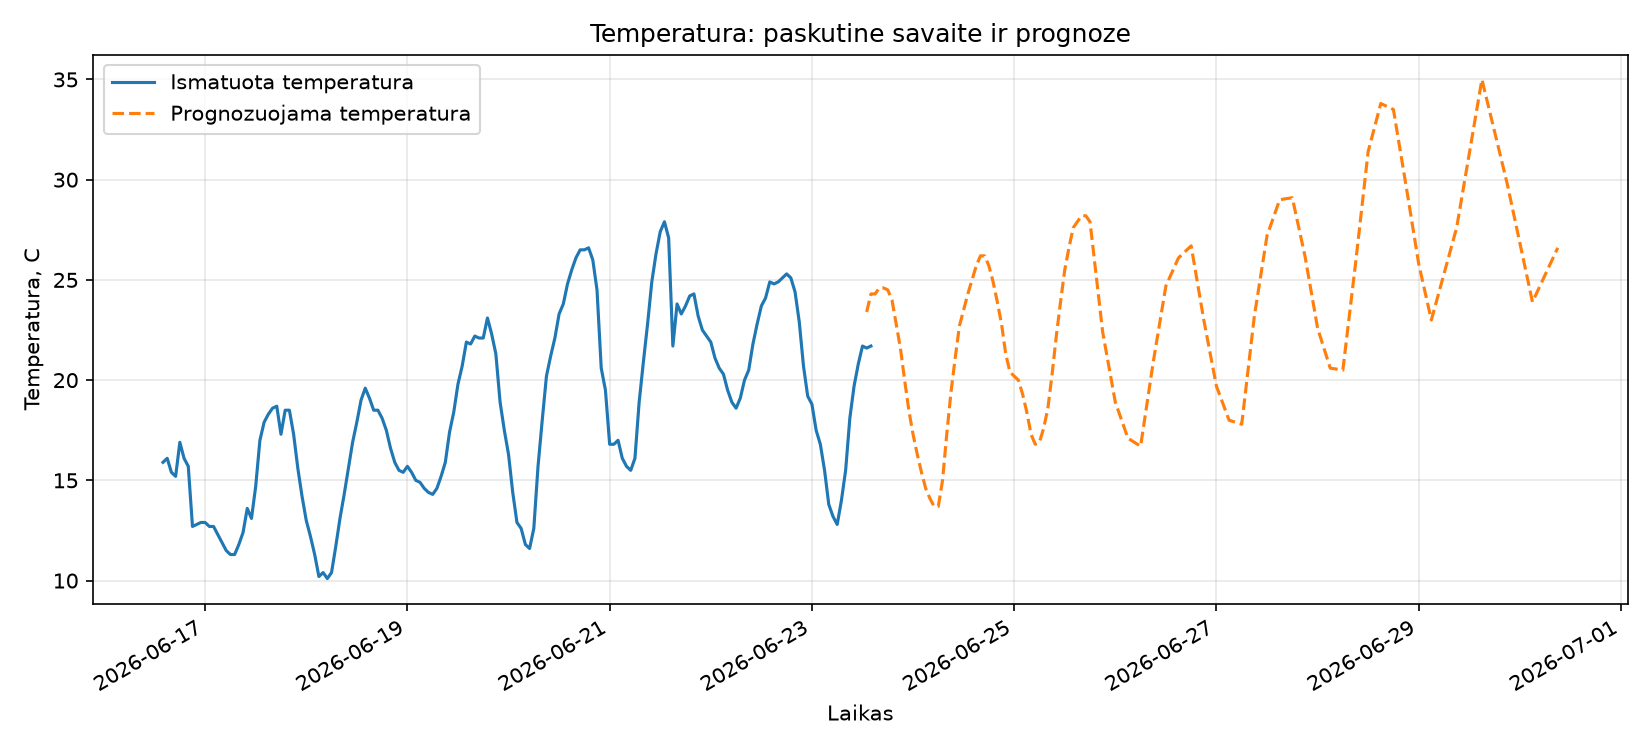
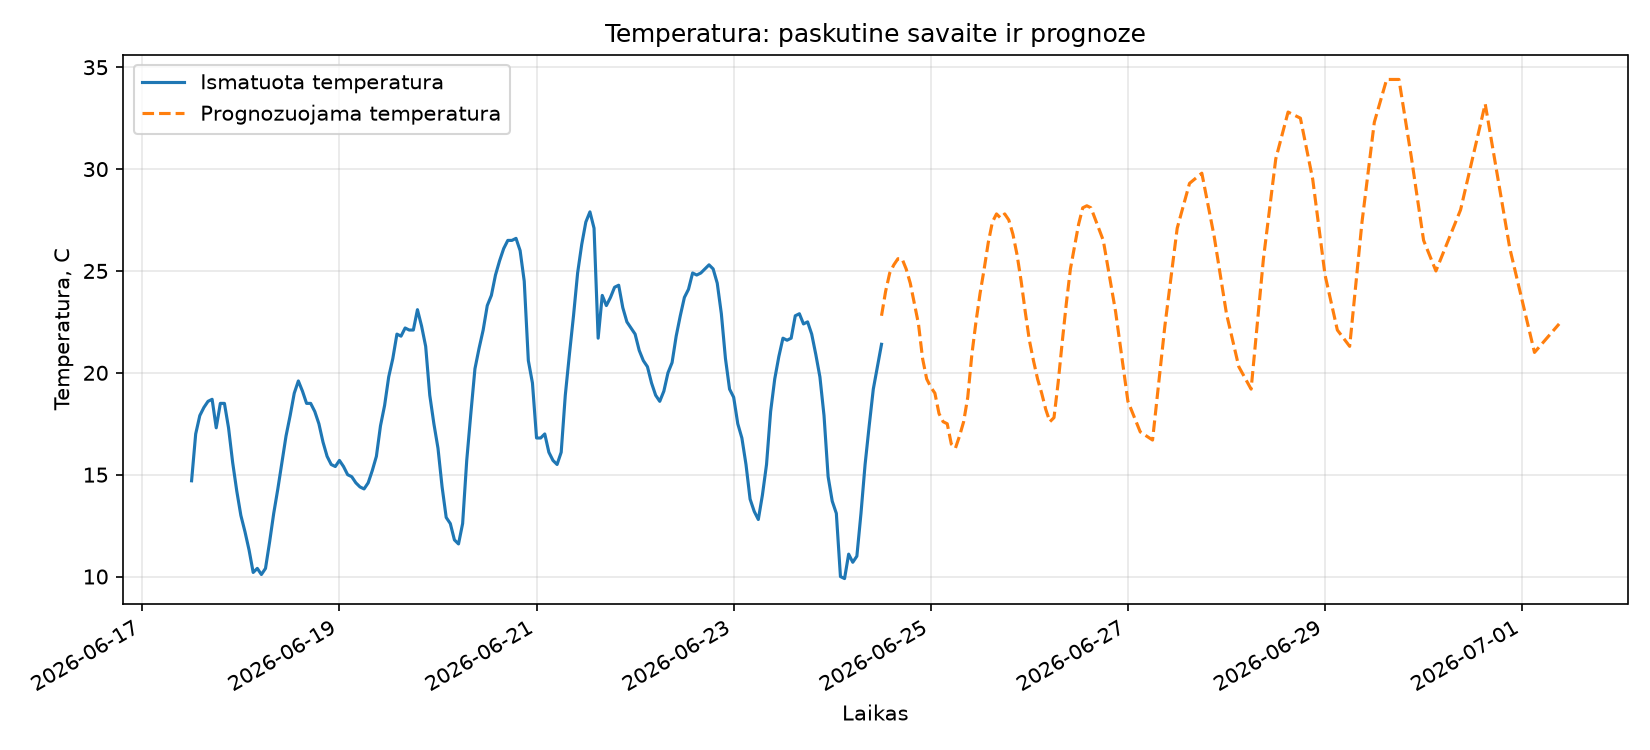
Update analysis files and report

diff --git a/analysis.py b/analysis.py
@@ -66,11 +66,3 @@ def interpolate_temperature_5min(temperature: pd.Series) -> pd.Series:
         raise TypeError("Series indeksas turi buti pd.DatetimeIndex.")
 
     return temperature.resample("5min").interpolate("time")
-
-
-# Suderinamumas su ankstesniais vardais.
-compute_annual_averages = annual_averages
-compute_day_night_temperatures = day_night_temperature
-count_rainy_weekends = rainy_weekends
-plot_temperature_combined = plot_temperature
-resample_to_5min = interpolate_temperature_5min

diff --git a/meteo_client.py b/meteo_client.py
@@ -1,6 +1,6 @@
 from __future__ import annotations
 
-from datetime import date, datetime
+from datetime import date
 from time import sleep
 import pandas as pd
 import requests
@@ -84,8 +84,3 @@ class MeteoClient:
                 df[column] = numeric
 
         return df
-
-
-# Suderinamumas su ankstesniais failais, jei notebook'e naudoti seni vardai.
-MeteoClient.fetch_historical = MeteoClient.get_historical_data
-MeteoClient.fetch_forecast = MeteoClient.get_forecast_data